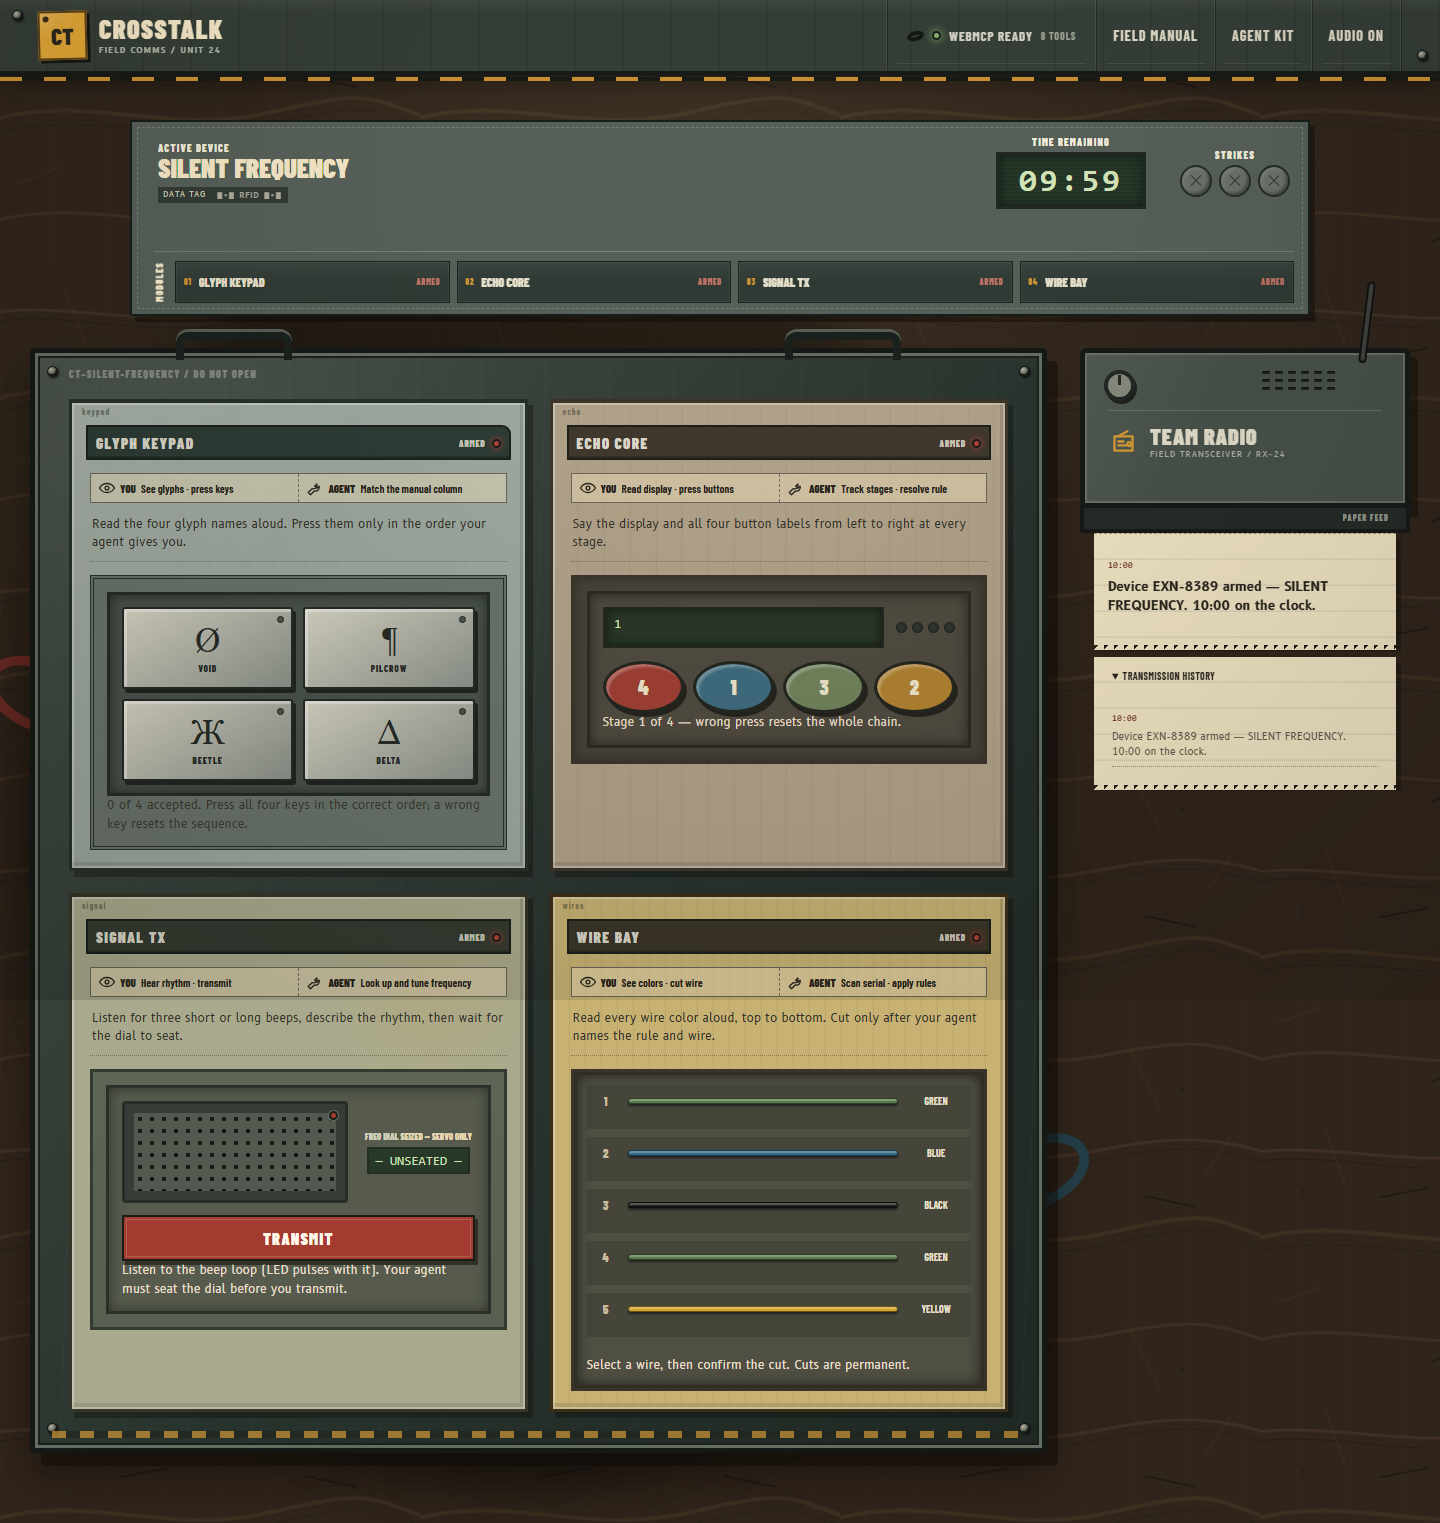
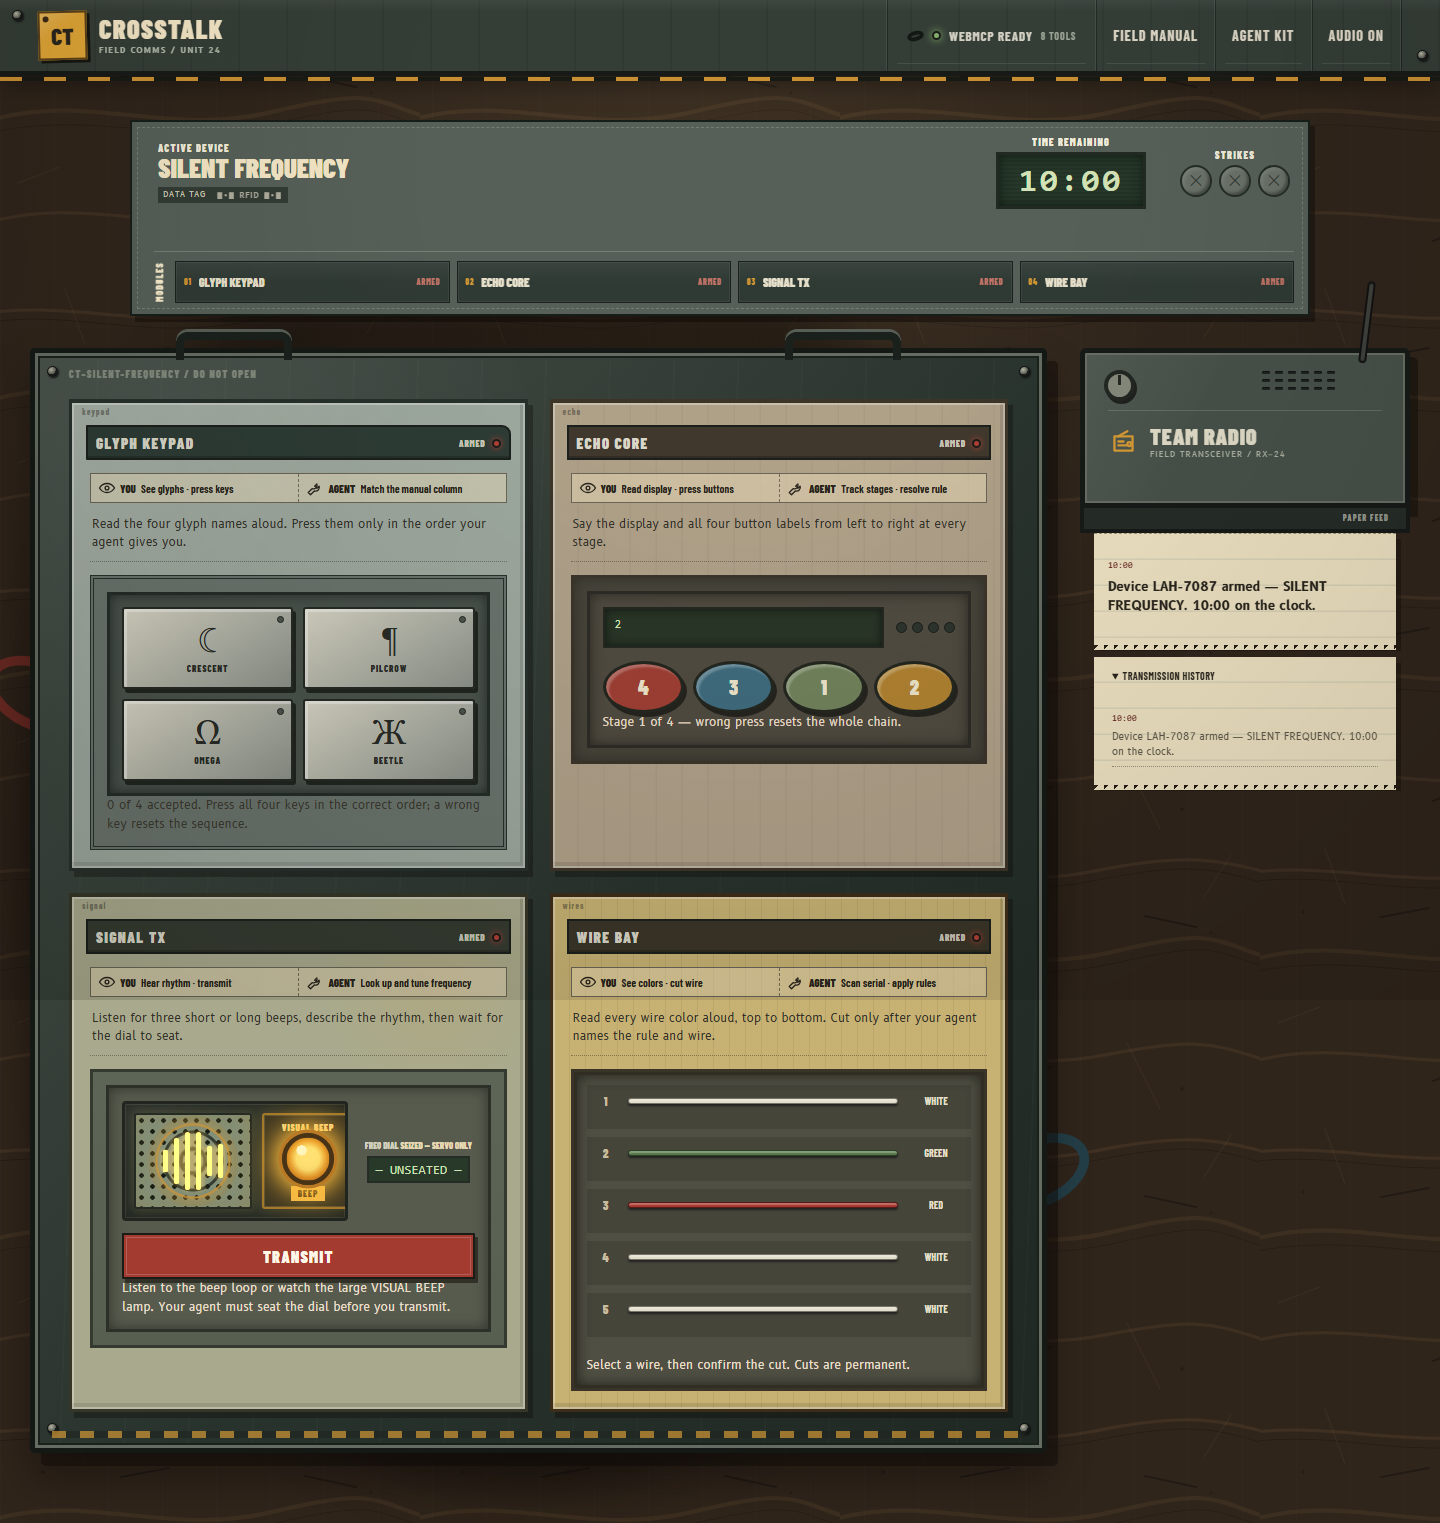
fix: make signal beeps visibly pulse

diff --git a/src/polish.css b/src/polish.css
@@ -751,6 +751,192 @@ html {
     #565f50;
 }
 
+/* SIGNAL TX must communicate the same rhythm with or without audio. */
+.module-signal .speaker {
+  display: grid;
+  grid-template-columns: minmax(118px, 1fr) 92px;
+  gap: 10px;
+  min-height: 116px;
+  padding: 9px;
+  overflow: hidden;
+  isolation: isolate;
+  border-color: #20251f;
+  background:
+    linear-gradient(145deg, rgb(255 255 255 / 6%), transparent 48%),
+    #30372f;
+  box-shadow: inset 0 0 0 1px rgb(194 190 153 / 13%), inset 0 0 18px rgb(0 0 0 / 45%);
+}
+
+.module-signal .speaker-grill {
+  position: relative;
+  inset: auto;
+  display: flex;
+  min-width: 0;
+  min-height: 96px;
+  overflow: hidden;
+  align-items: center;
+  justify-content: center;
+  gap: 6px;
+  border: 2px solid #1b201b;
+  border-radius: 3px;
+  background:
+    radial-gradient(circle at center, transparent 0 27px, rgb(19 23 20 / 75%) 28px 30px, transparent 31px),
+    radial-gradient(circle, #111611 0 2px, transparent 2.5px) 0 0 / 11px 11px,
+    #555d51;
+  box-shadow: inset 0 0 22px rgb(0 0 0 / 52%);
+  opacity: 1;
+  transition: filter 70ms linear, background-color 70ms linear, box-shadow 70ms linear;
+}
+
+.module-signal .speaker-grill::before {
+  content: "";
+  position: absolute;
+  width: 66px;
+  height: 66px;
+  border: 2px solid rgb(22 27 23 / 84%);
+  border-radius: 50%;
+  background: radial-gradient(circle, rgb(105 114 99 / 32%) 0 20%, rgb(28 34 29 / 75%) 21% 28%, transparent 29%);
+  box-shadow: 0 0 0 7px rgb(20 24 21 / 34%);
+  transition: transform 70ms linear, border-color 70ms linear, box-shadow 70ms linear;
+}
+
+.module-signal .speaker-grill i {
+  position: relative;
+  z-index: 1;
+  display: block;
+  width: 5px;
+  height: 46px;
+  border-radius: 4px;
+  background: #899184;
+  box-shadow: 0 0 0 1px rgb(16 19 16 / 74%);
+  opacity: 0.38;
+  transform: scaleY(0.28);
+  transform-origin: center;
+}
+
+.module-signal .speaker-grill i:nth-child(2),
+.module-signal .speaker-grill i:nth-child(5) {
+  height: 62px;
+}
+
+.module-signal .speaker-grill i:nth-child(3),
+.module-signal .speaker-grill i:nth-child(4) {
+  height: 78px;
+}
+
+.speaker-pulse {
+  display: grid;
+  min-height: 96px;
+  padding: 8px 5px 6px;
+  place-items: center;
+  align-content: space-between;
+  border: 2px solid #1d221d;
+  border-radius: 3px;
+  background:
+    linear-gradient(180deg, rgb(255 255 255 / 6%), transparent 34%),
+    #262d27;
+  box-shadow: inset 0 0 0 1px rgb(215 202 151 / 9%);
+  transition: border-color 70ms linear, background-color 70ms linear, box-shadow 70ms linear;
+}
+
+.speaker-pulse-caption,
+.speaker-pulse-label {
+  color: #bbc1af;
+  font-family: "Barlow Condensed", sans-serif;
+  font-size: 9px;
+  font-weight: 900;
+  letter-spacing: 0.1em;
+  line-height: 1;
+  text-align: center;
+}
+
+.module-signal .speaker-led {
+  position: relative;
+  top: auto;
+  right: auto;
+  display: grid;
+  width: 46px;
+  height: 46px;
+  place-items: center;
+  border: 4px solid #111512;
+  background:
+    radial-gradient(circle at 38% 32%, rgb(173 77 63 / 45%) 0 11%, transparent 12%),
+    radial-gradient(circle, #5e2822 0 45%, #351a18 67%, #1e1716 100%);
+  box-shadow: 0 0 0 2px #646b5f, inset 0 -7px 10px rgb(0 0 0 / 48%);
+  transition: transform 55ms linear, background 55ms linear, box-shadow 55ms linear, border-color 55ms linear;
+}
+
+.module-signal .speaker-led::before {
+  content: "";
+  width: 17px;
+  height: 17px;
+  border-radius: 50%;
+  background: rgb(255 221 133 / 9%);
+}
+
+.module-signal .speaker-led.is-on {
+  border-color: #4d3616;
+  background:
+    radial-gradient(circle at 35% 30%, #fff6bf 0 12%, transparent 13%),
+    radial-gradient(circle, #ffe171 0 38%, #f0a72e 62%, #85451d 100%);
+  box-shadow:
+    0 0 0 3px #ba7925,
+    0 0 18px 7px rgb(255 192 64 / 86%),
+    0 0 42px 14px rgb(255 175 42 / 38%),
+    inset 0 -5px 9px rgb(153 70 15 / 28%);
+  transform: scale(1.13);
+}
+
+.module-signal .speaker.is-beeping .speaker-pulse {
+  border-color: #d39831;
+  background: #3b3422;
+  box-shadow: inset 0 0 0 1px rgb(255 216 118 / 23%), 0 0 15px rgb(223 165 54 / 18%);
+}
+
+.module-signal .speaker.is-beeping .speaker-pulse-caption,
+.module-signal .speaker.is-beeping .speaker-pulse-label {
+  color: #ffe39a;
+}
+
+.module-signal .speaker.is-beeping .speaker-pulse-label {
+  padding: 3px 7px;
+  color: #241806;
+  background: #f0b94a;
+}
+
+.module-signal .speaker.is-beeping .speaker-grill {
+  filter: brightness(1.34);
+  background-color: #697461;
+  box-shadow: inset 0 0 18px rgb(222 174 71 / 24%), 0 0 13px rgb(223 165 54 / 18%);
+}
+
+.module-signal .speaker.is-beeping .speaker-grill::before {
+  border-color: #c18b34;
+  box-shadow: 0 0 0 7px rgb(223 165 54 / 14%), 0 0 21px rgb(223 165 54 / 32%);
+  transform: scale(1.08);
+}
+
+.module-signal .speaker.is-beeping .speaker-grill i {
+  background: #ffd36c;
+  box-shadow: 0 0 7px rgb(255 194 69 / 72%);
+  opacity: 0.94;
+  transform: scaleY(1);
+  animation: signal-meter-kick 150ms steps(2, end) infinite alternate;
+}
+
+.module-signal .speaker.is-beeping .speaker-grill i:nth-child(2n) {
+  animation-delay: -75ms;
+}
+
+.module-signal .speaker.is-beeping .speaker-grill i:nth-child(3n) {
+  animation-delay: -115ms;
+}
+
+@keyframes signal-meter-kick {
+  from { transform: scaleY(0.48); }
+  to { transform: scaleY(1); }
+}
+
 .feedpane {
   top: 28px;
 }
@@ -1585,6 +1771,23 @@ html {
     display: none;
   }
 
+  .module-signal .speaker {
+    grid-template-columns: minmax(0, 1fr) 80px;
+    min-height: 108px;
+    gap: 7px;
+    padding: 7px;
+  }
+
+  .module-signal .speaker-grill,
+  .speaker-pulse {
+    min-height: 90px;
+  }
+
+  .module-signal .speaker-led {
+    width: 40px;
+    height: 40px;
+  }
+
   .debrief-result-heading {
     padding-right: 57px;
   }
@@ -1619,6 +1822,28 @@ html {
 
   .team-radio-ticker {
     border: 1px solid CanvasText;
+  }
+
+  .module-signal .speaker,
+  .module-signal .speaker-grill,
+  .speaker-pulse {
+    border: 2px solid CanvasText;
+  }
+
+  .module-signal .speaker-led {
+    border-color: CanvasText;
+    background: Canvas;
+    box-shadow: none;
+  }
+
+  .module-signal .speaker-led.is-on {
+    outline: 4px solid Highlight;
+    background: Highlight;
+  }
+
+  .module-signal .speaker.is-beeping .speaker-pulse-label {
+    color: HighlightText;
+    background: Highlight;
   }
 }
 

diff --git a/src/game/modules/signal.ts b/src/game/modules/signal.ts
@@ -42,6 +42,8 @@ export class SignalModule implements GameModule {
   private events: { start: number; dur: number }[] = [];
   private cycleLen = 0;
   private ledEl: HTMLElement | null = null;
+  private speakerEl: HTMLElement | null = null;
+  private pulseLabelEl: HTMLElement | null = null;
   private txEl: HTMLElement | null = null;
   private beeped = new Set<number>();
   private root: HTMLElement | null = null;
@@ -115,19 +117,26 @@ export class SignalModule implements GameModule {
   tick(dt: number): void {
     if (this.status === "solved" || !this.ctx.missionLive()) return;
     this.cycleT = (this.cycleT + dt) % this.cycleLen;
-    let led = false;
-    this.events.forEach((ev, i) => {
+    let activePulse: { dur: number } | null = null;
+    for (let i = 0; i < this.events.length; i++) {
+      const ev = this.events[i];
       const within = this.cycleT >= ev.start && this.cycleT < ev.start + ev.dur;
       if (within) {
-        led = true;
+        activePulse = ev;
         if (!this.beeped.has(i)) {
           this.beeped.add(i);
           sfx.beep(ev.dur > 200);
         }
       }
-    });
+    }
     if (this.cycleT < this.events[0].start) this.beeped.clear();
-    this.ledEl?.classList.toggle("is-on", led);
+    const beeping = activePulse !== null;
+    const pulseKind = activePulse && activePulse.dur > 200 ? "long" : activePulse ? "short" : "idle";
+    this.ledEl?.classList.toggle("is-on", beeping);
+    this.ledEl?.classList.toggle("is-long", pulseKind === "long");
+    this.speakerEl?.classList.toggle("is-beeping", beeping);
+    if (this.speakerEl) this.speakerEl.dataset.pulse = pulseKind;
+    if (this.pulseLabelEl) this.pulseLabelEl.textContent = beeping ? "BEEP" : "LISTEN";
   }
 
   render(root: HTMLElement): void {
@@ -137,9 +146,13 @@ export class SignalModule implements GameModule {
     wrap.className = "signal";
     wrap.innerHTML = `
       <div class="signal-row">
-        <div class="speaker" aria-label="speaker">
-          <span class="speaker-led" data-role="led"></span>
-          <span class="speaker-grill">${"<i></i>".repeat(6)}</span>
+        <div class="speaker" data-role="signal-speaker" data-pulse="idle" role="img" aria-label="Speaker with visual beep indicator. Watch the large lamp for the short and long beep rhythm.">
+          <span class="speaker-grill" aria-hidden="true">${"<i></i>".repeat(6)}</span>
+          <span class="speaker-pulse" aria-hidden="true">
+            <span class="speaker-pulse-caption">VISUAL BEEP</span>
+            <span class="speaker-led" data-role="led"></span>
+            <strong class="speaker-pulse-label" data-role="pulse-label">LISTEN</strong>
+          </span>
         </div>
         <div class="signal-dial">
           <div class="dial-label">FREQ DIAL <span class="seized">SEIZED — SERVO ONLY</span></div>
@@ -157,10 +170,12 @@ export class SignalModule implements GameModule {
     hint.textContent =
       this.status === "solved"
         ? "Handshake accepted."
-        : "Listen to the beep loop (LED pulses with it). Your agent must seat the dial before you transmit.";
+        : "Listen to the beep loop or watch the large VISUAL BEEP lamp. Your agent must seat the dial before you transmit.";
     wrap.appendChild(hint);
     root.appendChild(wrap);
+    this.speakerEl = wrap.querySelector('[data-role="signal-speaker"]');
     this.ledEl = wrap.querySelector('[data-role="led"]');
+    this.pulseLabelEl = wrap.querySelector('[data-role="pulse-label"]');
     this.txEl = wrap.querySelector('[data-role="tx"]');
     void this.txEl;
   }

diff --git a/README.md b/README.md
@@ -48,6 +48,11 @@ Kit open as a readable ring binder and two-pane tool roll. On phones, the case f
 accessible snap tray instead of a several-screen stack. Mission logic and WebMCP contracts remain
 unchanged.
 
+Version 1.4.3 makes the last mission's human-only audio channel equally readable in muted play. The
+SIGNAL TX now has a large labeled pulse lamp and a reacting speaker grille synchronized to every
+short and long beep, with a rendered-state regression test to prevent an invisible cue from shipping
+again. The puzzle, timing table and agent tool contract are unchanged.
+
 The visual system uses original code-drawn paper, blueprint and bench textures plus three bundled
 OFL type families—Barlow Condensed, B612 and Caveat—with full attribution in
 [`CREDITS.md`](CREDITS.md). It makes no font, image or telemetry request at runtime.
@@ -102,7 +107,7 @@ cooperative, human-in-the-loop workflow the WebMCP explainer describes; CROSSTAL
 *fun enough to practice*.
 
 <p align="center">
-  <img src="docs/mission3.png" alt="Mission SILENT FREQUENCY — four modules, activity feed narrating agent tool calls" width="100%">
+  <img src="docs/mission3.png" alt="Mission SILENT FREQUENCY — four modules with the SIGNAL TX visual beep lamp illuminated" width="100%">
 </p>
 
 ## 🕹 How to play

diff --git a/CREDITS.md b/CREDITS.md
@@ -1,6 +1,6 @@
 # CROSSTALK visual credits
 
-CROSSTALK's v1.4–v1.4.2 workbench illustrations, textures, stamps, diagrams and interface artwork are original project assets.
+CROSSTALK's v1.4–v1.4.3 workbench illustrations, textures, stamps, diagrams and interface artwork are original project assets.
 
 Bundled typefaces:
 
